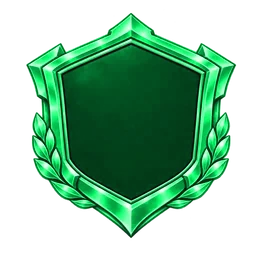
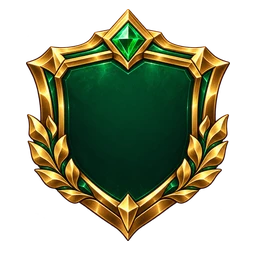
Ranked: Tomi Smaragd és Gyémánt címerei
Claude-Session: https://claude.ai/code/session_019pbky3KM5NKqxLPJGQF2Ch

diff --git a/site/index.html b/site/index.html
@@ -1611,8 +1611,8 @@ html{-webkit-text-size-adjust:100%;text-size-adjust:100%;}
 .rk-emb i{position:relative;top:-3%;font-style:normal;font-family:var(--display);font-size:28px;line-height:1;color:var(--tc);text-shadow:0 2px 0 rgba(0,0,0,.55),0 0 10px var(--tg);}
 .rk-emb.silver{background-image:url('art/ui/rank-silver.webp?v=380751c8');--tc:#ffffff;--tg:rgba(170,200,255,.75);}
 .rk-emb.gold{background-image:url('art/ui/rank-gold.webp?v=2c05727d');--tc:#fff0b0;--tg:rgba(255,200,60,.8);}
-.rk-emb.emerald{background-image:url('art/ui/rank-emerald.webp?v=1357c7b2');--tc:#d8ffe9;--tg:rgba(40,220,130,.8);}
-.rk-emb.diamond{background-image:url('art/ui/rank-diamond.webp?v=1fcccdd3');--tc:#eafcff;--tg:rgba(90,210,255,.85);}
+.rk-emb.emerald{background-image:url('art/ui/rank-emerald.webp?v=337b2e4f');--tc:#d8ffe9;--tg:rgba(40,220,130,.8);}
+.rk-emb.diamond{background-image:url('art/ui/rank-diamond.webp?v=0247bb39');--tc:#eafcff;--tg:rgba(90,210,255,.85);}
 .rk-emb.legend{background-image:url('art/ui/rank-legend.webp?v=fb0d6924');}
 .rk-emb.legend i{display:none;}
 .rk-emb.xs{width:38px;height:38px;}.rk-emb.xs i{font-size:16px;}
@@ -2367,7 +2367,7 @@ body.pf-loading #scr-menu .pb-name::after{content:'';display:inline-block;width:
 <script src="vendor/firebase-auth-compat.js"></script>
 <script src="vendor/firebase-firestore-compat.js"></script>
 <script src="vendor/firebase-database-compat.js"></script>
-<script>window.APP_VERSION = "2026.10.19-1512"; window.APP_BUILD = "2026.10.19-1513";</script>
+<script>window.APP_VERSION = "2026.10.19-1512"; window.APP_BUILD = "2026.10.19-1915";</script>
 <script>// ===== Best of Us – saját szerver (Firebase) =====
 // A játék eredetileg a Claude-os tárolót használta (window.claude.use('db' | 'user' | 'room')).
 // Ez a fájl ugyanazt a felületet adja Firebase-ből, így a játék kódja szinte változatlan maradhat:

diff --git a/site/sw.js b/site/sw.js
@@ -1,8 +1,8 @@
 // Best of Us – service worker
 // A képek (art/) és a Firebase-könyvtárak a telefonon maradnak (gyors indulás, kevesebb adatforgalom);
 // a játék maga (index.html, version.json) mindig a netről jön, ha van net – így a frissítés azonnal megérkezik.
-const V = '2026.10.19-1513';
-const ASSETS = 'bou-assets-e7b666f5f4', PAGES = 'bou-pages-' + V;
+const V = '2026.10.19-1915';
+const ASSETS = 'bou-assets-01351076b5', PAGES = 'bou-pages-' + V;
 self.addEventListener('install', e => { self.skipWaiting(); });
 self.addEventListener('activate', e => {
   e.waitUntil((async () => {

diff --git a/src/doc.md b/src/doc.md
@@ -470,7 +470,7 @@ Hősképesség-ötletek a táblázatban (még nem zöldek, nincsenek beépítve)
 - A 2. ranked szezontól (10-23) Arany és Legenda között: **Smaragd 5–1** (t 15–19) és **Gyémánt 5–1** (t 20–24), Legenda t=25. Az 1. ranked szezon (`s2`) a régi skálán fut végig (Legenda = 15) – `rkLegOf(szezon)`, `rkLeg()`, `rkNameL`, `rkTierClsL`.
 - Smaragdban és Gyémántban 5 csillag kell fokozatonként; Aranytól felfelé nincs sorozatbónusz (`rkHard`); liga-esésvédelem: Smaragd 5 és Gyémánt 5 alá sem lehet visszaesni; Aranytól Mester bot.
 - Lépcsőjutalmak (`RK_REWARDS_S2`): Bronz 4: 2 pack · Ezüst 5: 2 Shiny · Arany 5: 1000 coin · **Smaragd 5: 3 Shiny · Gyémánt 5: 2000 coin** (javaslat, Tomi átírhatja) · Legenda: Legenda hátlap. Az 1. szezon jutalmai (`RK_REWARDS_S1`) változatlanok.
-- Címer: `art/ui/rank-emerald.webp`, `rank-diamond.webp` (az arany és ezüst címer átszínezve). A ranked oldal szabályleírása szezontól függően írja ki a ligákat és a szezon végét.
+- Címer: `art/ui/rank-emerald.webp` (arany keret, smaragd), `rank-diamond.webp` (ezüst keret, kék gyémánt) – Tomi küldte 2026-10-19 este (előtte átszínezett ideiglenes képek). A ranked oldal szabályleírása szezontól függően írja ki a ligákat és a szezon végét.
 
 ## Ranked szezonok a Season Passtól függetlenül + top 3 szezonjutalom (2026-10-19, Tomi)
 - `RK_SEASONS` (meta.js): **1. ranked szezon** (id `s2`, hogy a meglévő rangok megmaradjanak) 2026-10-12 – **2026-10-23 (péntek) 0:00**; **2. ranked szezon** (`r2`) 10-23 0:00 – 11-11 0:00. A következő ranked szezont ide kell felvenni.
